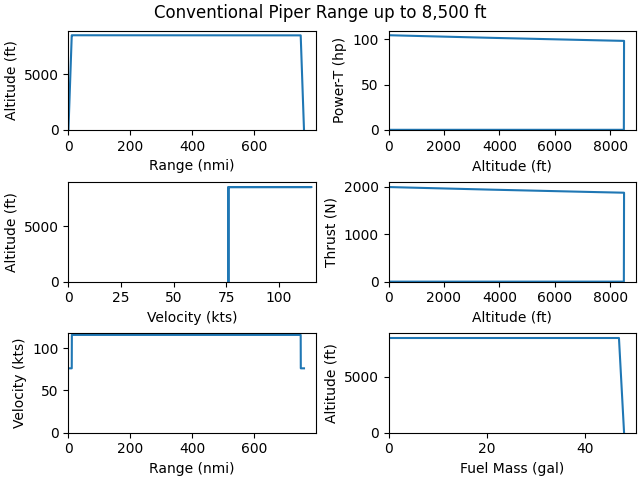
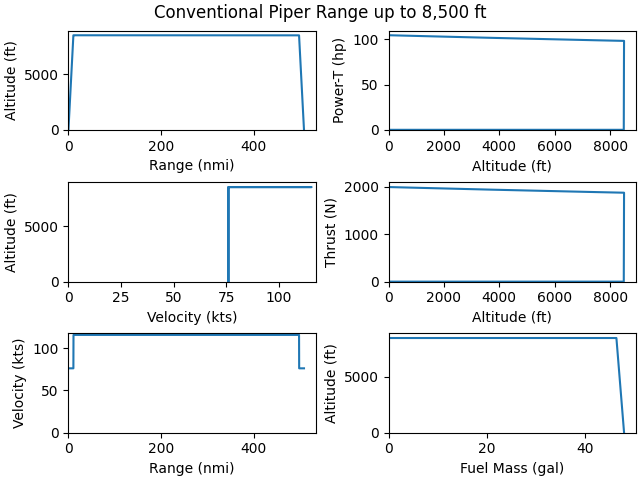
End of Alpha Code

diff --git a/main.py b/main.py
@@ -26,16 +26,17 @@ CS5 = [(250, 1000, 10000, "kts"), (300, 2000, 25000, "kts"), (0.7, 500, 30000, "
 # ERJ175 = AircraftConventional("ERJ175", CruiseMach, CruiseAltitude, "Embraer_175", Embraer175_Dict)
 # ERJ175_EV = AircraftElectric("ERJ175 EV", CruiseMach, CruiseAltitude, "Embraer_175", Embraer175_Dict)
 PA28 = AircraftConventional("PA28", 0.18, 8500, "Piper_Archer_III", PiperArcherIII_Dict)
-
+PA28EV = AircraftElectric("PA28", 0.18, 8500, "Piper_Archer_III", PiperArcherIII_Dict)
 # ERJ175_control = Control(ERJ175, CS4)
 # ERJ175_EV_control = Control(ERJ175_EV, CS4)
 PA28_control = Control(PA28, CSPip)
-
+PA28EV_control = Control(PA28EV, CSPip)
 # ERJ175_control.TimestepBeta(dt = 1)
 # ERJ175_EV_control.TimestepBeta(dt = 1)
-PA28_control.TimestepBeta(dt = 1/7)
-
+PA28_control.TimestepBeta(dt = 1/5)
+PA28EV_control.TimestepBeta(dt = 1/5)
 # MyCurrentPlot(ERJ175_EV_control, "Range up to 25,000 ft")
 # MyCurrentPlot(ERJ175_control, "Range up to 25,000 ft")
 MyCurrentPlot(PA28_control, "Piper Range up to 8,500 ft")
-print(PA28.Endurance/3600)
+MyCurrentPlot(PA28EV_control, "Piper Range up to 8,500 ft")
+print(PA28.Range)

diff --git a/Figure_Creator/Vector_Diagram.py b/Figure_Creator/Vector_Diagram.py
@@ -1,0 +1,8 @@
+import numpy as np
+from matplotlib import pyplot as plt
+plt.rcParams["figure.figsize"] = [7.00, 3.50]
+plt.rcParams["figure.autolayout"] = True
+data = np.array([[2, 1], [-1, 2], [4, -1],[0,-1]])
+origin = np.array([[0, 0, 0, 0],[0, 0, 0, 0]])
+plt.quiver(*origin, data[:, 0], data[:, 1], color=['black', 'red', 'green', 'black'], scale=15)
+plt.show()

diff --git a/Performance_Classes/Aircraft.py b/Performance_Classes/Aircraft.py
@@ -102,5 +102,5 @@ class Aircraft(Aviation):
     def GetSC(self):
         self.GetTSFC(unit = 's')
         if "PIPER" in self.AircraftType.upper():
-            self.TSFC = 19.9581/3600/self.Thrust*self.g # Hard coded for POH Values
+            self.TSFC = 4.99*6*self.g/3600/self.Thrust # Hard coded for POH Values
         return None

diff --git a/Aerodynamic_Classes/Coefficients.py b/Aerodynamic_Classes/Coefficients.py
@@ -1,2 +1,3 @@
 from Aerodynamics import Aerodynamics
 class Coefficients:
+    pass

diff --git a/Aerodynamic_Classes/Atmosphere.py b/Aerodynamic_Classes/Atmosphere.py
@@ -1,0 +1,3 @@
+class Atmosphere:
+    def __init__(self) -> None:
+        pass
